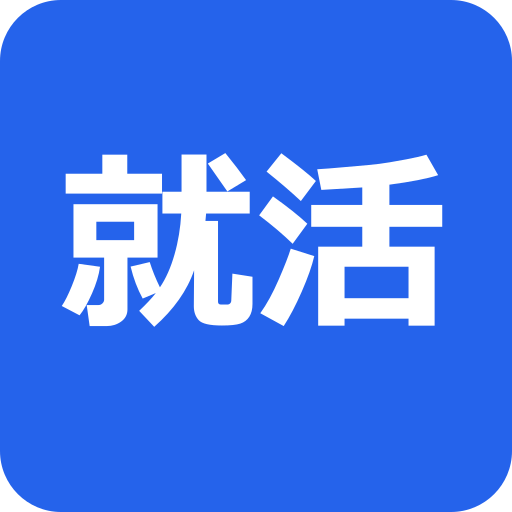
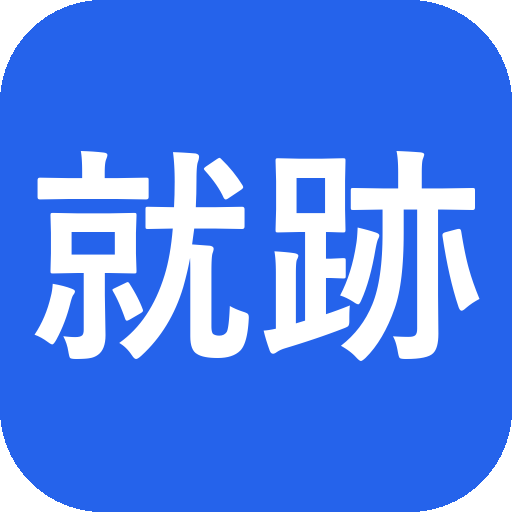
アプリ名を就跡に変更

diff --git a/app/page.tsx b/app/page.tsx
@@ -469,8 +469,8 @@ export default function Home() {
       <header className="bg-white border-b border-gray-200 shadow-sm sticky top-0 z-10">
         <div className="max-w-3xl mx-auto px-4 py-4 flex items-center justify-between">
           <div>
-            <h1 className="text-xl font-bold text-gray-900">就活対策アプリ</h1>
-            <p className="text-xs text-gray-500 mt-0.5">AIが面接・ESの回答にフィードバックします</p>
+            <h1 className="text-xl font-bold text-gray-900">就跡</h1>
+            <p className="text-xs text-gray-500 mt-0.5">就活の軌跡を積み上げよう</p>
           </div>
           <div className="flex items-center gap-2">
             <button
@@ -930,7 +930,7 @@ export default function Home() {
               <div className="flex items-start justify-between mb-5">
                 <div>
                   <p className="text-xs font-semibold text-blue-500 uppercase tracking-wide mb-1">はじめての方へ</p>
-                  <h2 className="text-lg font-bold text-gray-900">就活対策アプリの使い方</h2>
+                  <h2 className="text-lg font-bold text-gray-900">就跡の使い方</h2>
                 </div>
                 <button
                   onClick={handleCloseTutorial}

diff --git a/app/layout.tsx b/app/layout.tsx
@@ -13,8 +13,12 @@ const geistMono = Geist_Mono({
 });
 
 export const metadata: Metadata = {
-  title: "就活対策アプリ",
-  description: "AIが面接・ESの回答にフィードバックします",
+  title: "就跡",
+  description: "面接・ESの練習記録が残る就活アプリ",
+  openGraph: {
+    title: "就跡",
+    description: "面接・ESの練習記録が残る就活アプリ",
+  },
 };
 
 export default function RootLayout({
@@ -29,7 +33,7 @@ export default function RootLayout({
         <meta name="theme-color" content="#2563eb" />
         <meta name="apple-mobile-web-app-capable" content="yes" />
         <meta name="apple-mobile-web-app-status-bar-style" content="default" />
-        <meta name="apple-mobile-web-app-title" content="就活対策" />
+        <meta name="apple-mobile-web-app-title" content="就跡" />
         <link rel="apple-touch-icon" href="/icon-192.png" />
       </head>
       <body
